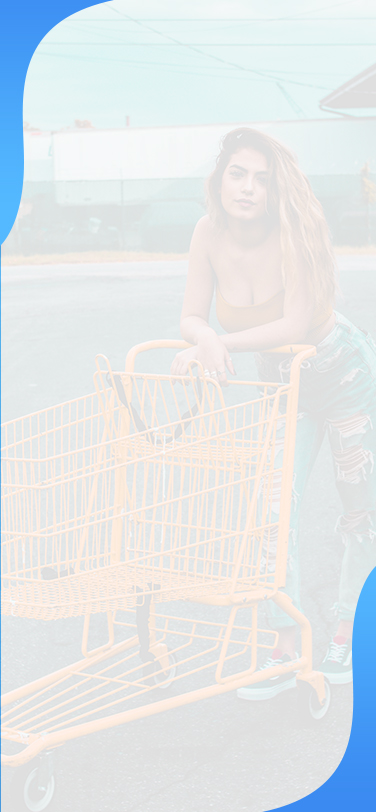
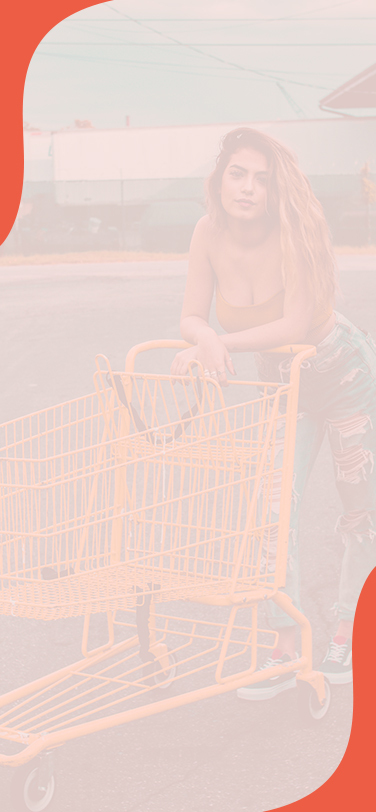
colors-changed

Changed region(s): [[0.0, 0.0, 1.0, 1.0], [0.2048, 0.3695, 0.234, 0.4002]]

diff --git a/pages/Footer/Index.tsx b/pages/Footer/Index.tsx
@@ -38,8 +38,8 @@ const FooterNavigation: React.FunctionComponent<Props> = ({
         <View style={style.container}>
             <TouchableOpacity onPress={backButton}>
                 <View style={[style.iconContainer, { backgroundColor: 'transparent' }]}>
-                    <Icon name="home" size={30} style={[style.Icon, { color: '#2b98ea' }]} />
-                    <Text style={[style.IconTitle, { color: '#2b98ea' }]}>{"Home"}</Text>
+                    <Icon name="home" size={30} style={[style.Icon, { color: '#ec5c44' }]} />
+                    <Text style={[style.IconTitle, { color: '#ec5c44' }]}>{"Home"}</Text>
                 </View>
             </TouchableOpacity>
             <TouchableOpacity onPress={goToShopping}>

diff --git a/components/Base/RoundButton.tsx b/components/Base/RoundButton.tsx
@@ -42,8 +42,8 @@ const style: Style = StyleSheet.create<Style>({
         justifyContent: "center",
         borderRadius: 45,
         borderWidth: 1,
-        borderColor: "#1da1f2",
-        backgroundColor: "#1da1f2",
+        borderColor: "#ec5c44",
+        backgroundColor: "#ec5c44",
         shadowOffset: { width: 0, height: 8 },
         shadowColor: 'black',
         shadowOpacity: 0.2,

diff --git a/config/DefaultConfig.ts b/config/DefaultConfig.ts
@@ -71,7 +71,7 @@ export const lightTheme: AppTheme = {
   lightBottomColor: "#e6e6e6",
   alternateMessageBackgroundColor: '#B0E0E6',
   labelBgColor: "#000",
-  activeColor: "#37adf4",
+  activeColor: "#ec5c44",
   dangerColor: "#e13e3d",
 }
 

diff --git a/pages/CreateAccount/Index.tsx b/pages/CreateAccount/Index.tsx
@@ -156,7 +156,7 @@ const style: Style = StyleSheet.create<Style>({
   title: {
     fontSize: 28,
     fontWeight: "600",
-    color: "#54afee"
+    color: "#ec5c44"
   },
   iconContainer: {
     borderRadius: 6,
